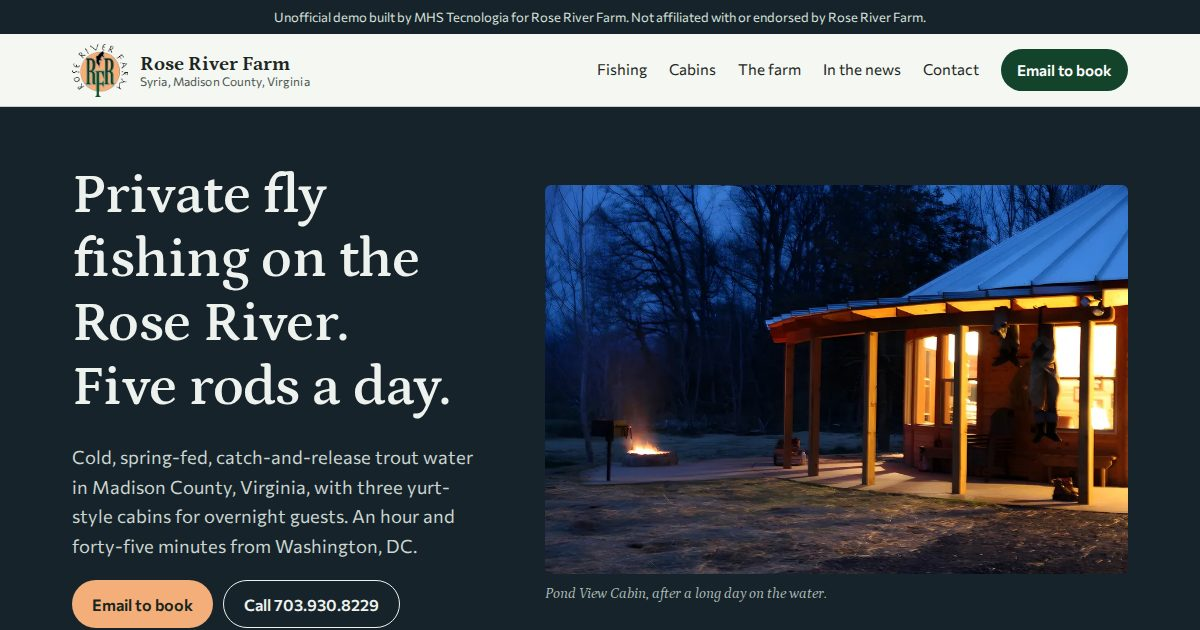
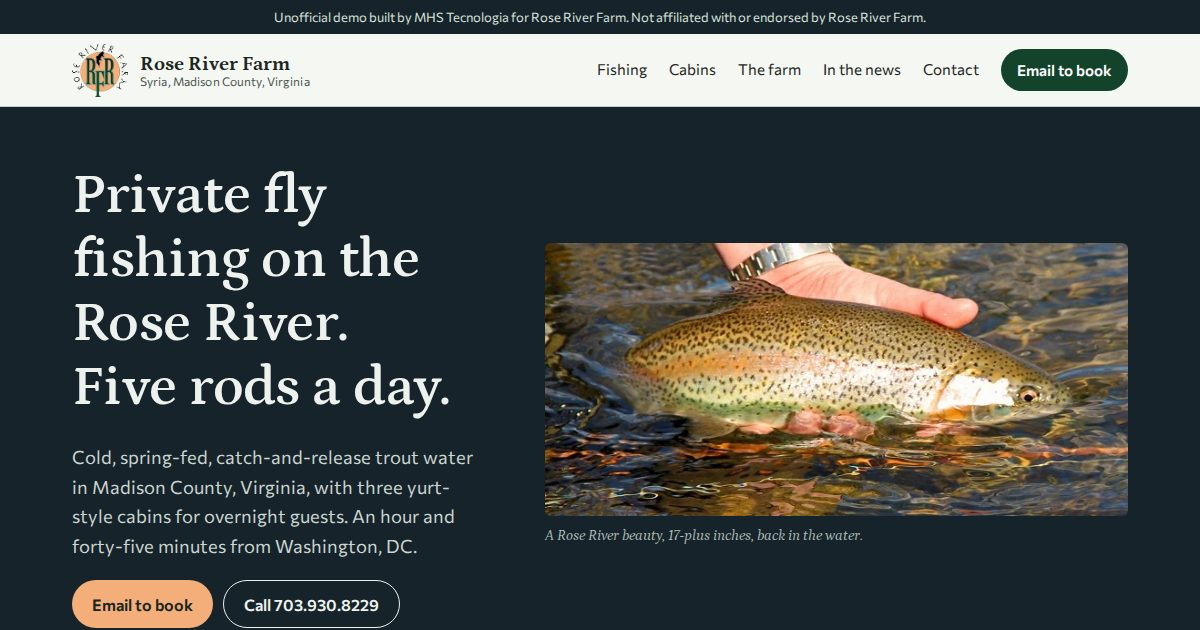
Previews: 165 ativos

Changed region(s): [[0.4317, 0.2714, 0.9558, 0.9651]]

diff --git a/rose-river-farm-syria-va/index.html b/rose-river-farm-syria-va/index.html
@@ -10,8 +10,7 @@
 <link rel="icon" href="favicon.png" type="image/png">
 <link rel="preload" href="fonts/petrona.woff2" as="font" type="font/woff2" crossorigin>
 <link rel="preload" href="fonts/commissioner.woff2" as="font" type="font/woff2" crossorigin>
-<link rel="preload" as="image" media="(max-width: 699px)" imagesrcset="img/hero-m-800.webp 800w" imagesizes="calc(100vw - 32px)" fetchpriority="high">
-<link rel="preload" as="image" media="(min-width: 700px)" imagesrcset="img/hero-1000.webp 1000w, img/hero-1400.webp 1400w" imagesizes="(min-width: 1184px) 590px, (min-width: 900px) 52vw, calc(100vw - 64px)" fetchpriority="high">
+<link rel="preload" as="image" href="img/trout-640.webp" imagesrcset="img/trout-640.webp 640w" imagesizes="(min-width: 1184px) 590px, (min-width: 900px) 52vw, calc(100vw - 32px)" fetchpriority="high">
 <style>@font-face{font-family:Petrona;src:url(fonts/petrona.woff2) format("woff2");font-weight:400 800;font-style:normal;font-display:swap}
 @font-face{font-family:Petrona;src:url(fonts/petrona-italic.woff2) format("woff2");font-weight:400 800;font-style:italic;font-display:swap}
 @font-face{font-family:Commissioner;src:url(fonts/commissioner.woff2) format("woff2");font-weight:300 700;font-style:normal;font-display:swap}
@@ -67,9 +66,8 @@ p{margin:0 0 1em;max-width:66ch}
 .hero .lede{color:#cbd6d2;font-size:1.0625rem;margin-bottom:1.1em;max-width:44ch}
 .actions{display:flex;flex-wrap:wrap;gap:10px}
 .hero figure{margin:0}
-.hero figure img{width:100%;border-radius:6px;aspect-ratio:5/4;object-fit:cover}
+.hero figure img{width:100%;max-width:640px;border-radius:6px}
 .hero figcaption{font-family:Petrona,Georgia,serif;font-style:italic;color:#aebdb8;font-size:.95rem;margin-top:8px}
-@media(min-width:700px){.hero figure img{aspect-ratio:3/2}}
 @media(min-width:900px){
  .hero .wrap{grid-template-columns:minmax(0,5fr) minmax(0,7fr);align-items:center;gap:56px;padding-top:56px;padding-bottom:64px}
  .hero .lede{font-size:1.15rem}
@@ -78,6 +76,10 @@ p{margin:0 0 1em;max-width:66ch}
 .phead{background:var(--dusk);color:#eef2ee;padding:34px 0 30px}
 .phead h1{font-size:clamp(2rem,1.4rem + 2.4vw,3.1rem);font-weight:600;max-width:22ch}
 .phead p{color:#cbd6d2;font-size:1.1rem;max-width:58ch;margin:0}
+/* photo band under inner page heads */
+.band-ph{padding:28px 0 0}
+.band-ph + .sec{padding-top:44px}
+@media(min-width:900px){.band-ph{padding-top:44px}.band-ph + .sec{padding-top:64px}}
 /* sections */
 .sec{padding:56px 0}
 .sec:not(.dark) + .sec:not(.dark){padding-top:8px}
@@ -156,6 +158,8 @@ details.dir p{margin:0 0 18px}
 .stick.on{transform:none}
 @media(min-width:900px){.stick{display:none}}
 @media(prefers-reduced-motion:reduce){.stick{transition:none}}
+.ph img[width="500"]{max-width:500px}
+.dark .ph figcaption{color:#aebdb8}
 </style>
 <meta property="og:type" content="website">
 <meta property="og:title" content="Rose River Farm · Private fly fishing in Syria, Virginia">
@@ -186,11 +190,8 @@ details.dir p{margin:0 0 18px}
    <div class="actions"><a class="btn btn-peach" href="mailto:roseriverfarm@gmail.com?subject=Booking%20a%20day%20at%20Rose%20River%20Farm">Email to book</a><a class="btn btn-line" href="tel:+17039308229">Call 703.930.8229</a></div>
   </div>
   <figure>
-   <picture>
-    <source media="(max-width: 699px)" srcset="img/hero-m-800.webp 800w" sizes="calc(100vw - 32px)" width="800" height="640">
-    <img src="img/hero-1400.webp" srcset="img/hero-1000.webp 1000w, img/hero-1400.webp 1400w" sizes="(min-width: 1184px) 590px, (min-width: 900px) 52vw, calc(100vw - 64px)" width="1400" height="933" alt="Waders hanging from the porch of a round cedar cabin at dusk, lit windows and a fire pit burning beside it" fetchpriority="high">
-   </picture>
-   <figcaption>Pond View Cabin, after a long day on the water.</figcaption>
+   <img src="img/trout-640.webp" srcset="img/trout-640.webp 640w" sizes="(min-width: 1184px) 590px, (min-width: 900px) 52vw, calc(100vw - 32px)" width="640" height="300" alt="A large spotted rainbow trout held just under the surface of clear river water" fetchpriority="high">
+   <figcaption>A Rose River beauty, 17-plus inches, back in the water.</figcaption>
   </figure>
  </div>
 </section>
@@ -214,18 +215,20 @@ details.dir p{margin:0 0 18px}
 </section>
 
 <section class="sec dark">
- <div class="wrap">
-<div class="flyhead"><div><h2 id="flybox">What’s in the fly box</h2>
- <p class="lead" style="margin:0">The patterns the farm fishes on its own water, season by season, as they write them up for guests.</p></div>
- <div class="tabs" role="tablist" aria-label="Season"><button role="tab" id="t-spring" aria-controls="p-spring" aria-selected="false" tabindex=-1>Spring</button><button role="tab" id="t-fall" aria-controls="p-fall" aria-selected="true">Fall</button><button role="tab" id="t-winter" aria-controls="p-winter" aria-selected="false" tabindex=-1>Winter</button><button role="tab" id="t-year" aria-controls="p-year" aria-selected="false" tabindex=-1>All year</button></div></div>
-<div class="box"><div class="foam"><div class="panel-s" role="tabpanel" id="p-spring" aria-labelledby="t-spring" tabindex="0"><div class="fly"><i>Stimulators</i></div><div class="fly"><i>Caddis</i></div><div class="fly"><i>Hoppers, crickets and ants</i><small>small sizes</small></div><p class="note">In spring, stimulators and caddis are good bets, along with the same terrestrials used in the fall, usually in small sizes.</p></div><div class="panel-s" role="tabpanel" id="p-fall" aria-labelledby="t-fall" tabindex="0"><div class="fly"><i>Hoppers</i><small>#12–16</small></div><div class="fly"><i>Crickets</i><small>#12–16</small></div><div class="fly"><i>Ants</i><small>#12–16</small></div><div class="fly"><i>Orange stimulator</i><small>#12–16</small></div><div class="fly"><i>Yellow stimulator</i><small>#12–16</small></div><p class="note">In the fall, hoppers, crickets and ants are all effective, as well as orange or yellow stimulators. Sizes 12–16 are typical.</p></div><div class="panel-s" role="tabpanel" id="p-winter" aria-labelledby="t-winter" tabindex="0"><div class="fly"><i>Black stoneflies</i><small>#16–22</small></div><div class="fly"><i>Trico patterns</i><small>#16–22</small></div><div class="fly"><i>Griffith’s Gnat</i><small>#18</small></div><div class="fly"><i>Winged stonefly</i></div><div class="fly"><i>Zebra Midge</i></div><div class="fly"><i>Orange caddis</i><small>#16</small></div><div class="fly"><i>Yellow caddis</i></div><div class="fly"><i>Parachute Adams</i></div><div class="fly"><i>Small black Woolly Bugger</i></div><div class="fly"><i>Rose River Special</i></div><p class="note">From the farm’s winter report: little black stoneflies come off most every day, and these patterns produced.</p></div><div class="panel-s" role="tabpanel" id="p-year" aria-labelledby="t-year" tabindex="0"><div class="fly"><i>Zebra Midge</i><small>nymph</small></div><div class="fly"><i>San Juan Worm</i><small>nymph</small></div><div class="fly"><i>Small Copper John</i><small>nymph</small></div><div class="fly"><i>Rainbow Warrior</i><small>nymph</small></div><div class="fly"><i>Prince Nymph</i><small>nymph</small></div><div class="fly"><i>Mop fly</i><small>nymph</small></div><div class="fly"><i>Woolly Bugger: black, olive, peach, white</i><small>streamer</small></div><p class="note">Nymphs can be very effective all year, often fished as a dry-dropper: the nymph on 1–2 feet of 5X tippet under an attractor dry fly.</p></div></div></div>
-<p class="tackle">Their tackle: a 4 or 5 weight rod, 7 to 9 foot leaders, 5X tippet. The Farm Fly Shop, in the big white barn with the green roof up the hill from the fishing gazebo, stocks guide Alan’s own proven ties.</p>
+<div class="wrap two">
+  <div>
+   <h2>What’s in the fly box</h2>
+   <p class="lead">The farm writes up what works on its water, season by season. In the fall: hoppers, crickets and ants, plus orange or yellow stimulators, sizes 12–16. In winter, little black stoneflies come off most every day.</p>
+   <p>Spring, winter and year-round patterns, nymph rigs and their tackle are in the full fly box.</p>
+   <p><a class="btn btn-peach" href="fishing.html#flybox">Open the full fly box</a></p>
+  </div>
+  <figure class="ph"><img src="img/pbb12-1280.webp" srcset="img/pbb12-640.webp 640w, img/pbb12-800.webp 800w, img/pbb12-1280.webp 1280w" sizes="(min-width: 1184px) 532px, (min-width: 900px) calc(50vw - 60px), calc(100vw - 32px)" width="1280" height="602" alt="Finished split-cane bamboo fly rod sections with a cork grip and figured wood reel seat" loading="lazy" decoding="async"><figcaption>A finished rod from the farm’s bamboo rod building class.</figcaption></figure>
  </div>
 </section>
 
 <section class="sec">
  <div class="wrap two">
-  <figure class="ph"><img src="img/p33-1200.webp" srcset="img/p33-640.webp 640w, img/p33-800.webp 800w, img/p33-1200.webp 1200w" sizes="(min-width: 1184px) 532px, (min-width: 900px) calc(50vw - 60px), calc(100vw - 32px)" width="1200" height="797" alt="Round living room under a domed wooden ceiling, with leather club chairs and a wall of windows" loading="lazy" decoding="async"><figcaption>The living room: a domed 17-foot ceiling and leather club furniture.</figcaption></figure>
+  <figure class="ph"><img src="img/hero-1400.webp" srcset="img/hero-1000.webp 1000w, img/hero-1400.webp 1400w" sizes="(min-width: 1184px) 532px, (min-width: 900px) calc(50vw - 60px), calc(100vw - 32px)" width="1400" height="933" alt="Waders hanging from the porch of a round cedar cabin at dusk, lit windows and a fire pit burning beside it" loading="lazy" decoding="async"><figcaption>Pond View Cabin, after a long day on the water.</figcaption></figure>
   <div>
    <h2>Stay the night in a yurt</h2>
    <p class="lead">Three cabins, Hill Top, Pond View and Mountain View, built as modern takes on the Mongolian yurt in cedar, glass and steel. They sit on a private 20-acre parcel catty-corner to the farm.</p>

diff --git a/rose-river-farm-syria-va/fishing.html b/rose-river-farm-syria-va/fishing.html
@@ -65,9 +65,8 @@ p{margin:0 0 1em;max-width:66ch}
 .hero .lede{color:#cbd6d2;font-size:1.0625rem;margin-bottom:1.1em;max-width:44ch}
 .actions{display:flex;flex-wrap:wrap;gap:10px}
 .hero figure{margin:0}
-.hero figure img{width:100%;border-radius:6px;aspect-ratio:5/4;object-fit:cover}
+.hero figure img{width:100%;max-width:640px;border-radius:6px}
 .hero figcaption{font-family:Petrona,Georgia,serif;font-style:italic;color:#aebdb8;font-size:.95rem;margin-top:8px}
-@media(min-width:700px){.hero figure img{aspect-ratio:3/2}}
 @media(min-width:900px){
  .hero .wrap{grid-template-columns:minmax(0,5fr) minmax(0,7fr);align-items:center;gap:56px;padding-top:56px;padding-bottom:64px}
  .hero .lede{font-size:1.15rem}
@@ -76,6 +75,10 @@ p{margin:0 0 1em;max-width:66ch}
 .phead{background:var(--dusk);color:#eef2ee;padding:34px 0 30px}
 .phead h1{font-size:clamp(2rem,1.4rem + 2.4vw,3.1rem);font-weight:600;max-width:22ch}
 .phead p{color:#cbd6d2;font-size:1.1rem;max-width:58ch;margin:0}
+/* photo band under inner page heads */
+.band-ph{padding:28px 0 0}
+.band-ph + .sec{padding-top:44px}
+@media(min-width:900px){.band-ph{padding-top:44px}.band-ph + .sec{padding-top:64px}}
 /* sections */
 .sec{padding:56px 0}
 .sec:not(.dark) + .sec:not(.dark){padding-top:8px}
@@ -154,6 +157,8 @@ details.dir p{margin:0 0 18px}
 .stick.on{transform:none}
 @media(min-width:900px){.stick{display:none}}
 @media(prefers-reduced-motion:reduce){.stick{transition:none}}
+.ph img[width="500"]{max-width:500px}
+.dark .ph figcaption{color:#aebdb8}
 </style>
 </head>
 <body>
@@ -170,6 +175,7 @@ details.dir p{margin:0 0 18px}
 <main id="main">
 
 <section class="phead" data-stick-after><div class="wrap"><h1>Fishing the farm</h1><p>Dry fly and nymph fishing on cold, crystal-clear, spring-fed private water. Come for a day, or add a night or two in the cabins.</p></div></section>
+<section class="band-ph"><div class="wrap grid2"><figure class="ph"><img src="img/p26-500.webp" srcset="img/p26-500.webp 500w" sizes="(min-width: 760px) 500px, calc(100vw - 32px)" width="500" height="332" alt="A trout lying in a landing net beside a fly rod" fetchpriority="high"><figcaption>Catch and gentle release, every fish.</figcaption></figure><figure class="ph"><img src="img/pbb12-1280.webp" srcset="img/pbb12-640.webp 640w, img/pbb12-800.webp 800w, img/pbb12-1280.webp 1280w" sizes="(min-width: 1184px) 532px, (min-width: 760px) calc(50vw - 44px), calc(100vw - 32px)" width="1280" height="602" alt="Finished split-cane bamboo fly rod sections with a cork grip" loading="lazy" decoding="async"><figcaption>A finished rod from the bamboo rod building class.</figcaption></figure></div></section>
 
 <section class="sec">
  <div class="wrap two">
@@ -183,7 +189,11 @@ details.dir p{margin:0 0 18px}
    </ul>
    <p class="note-plain" style="margin-top:20px">Open dates are on the farm’s own online reservation calendar. For a guided trip or a school, check stream availability first, then email <a href="mailto:roseriverfarm@gmail.com">roseriverfarm@gmail.com</a>.</p>
   </div>
-  <figure class="ph"><img src="img/p26-500.webp" srcset="img/p26-500.webp 500w" sizes="(min-width: 900px) 500px, calc(100vw - 32px)" width="500" height="332" alt="A trout lying in a landing net beside a fly rod" loading="lazy" decoding="async"><figcaption>Catch and gentle release keeps the trout population strong year round.</figcaption></figure>
+  <div>
+   <h2>Fish more than the farm</h2>
+   <p>Some of the best public trout water is minutes from the cabins: the Rapidan, White Oak Canyon, the Conway and the Upper Rose, all native brook trout streams. The farm offers full and half day guide services on them.</p>
+   <p>Their stretch of the Rose is regularly tested for water quality and aquatic insects, and strict catch and gentle release keeps the trout population strong year round.</p>
+  </div>
  </div>
 </section>
 
@@ -199,7 +209,7 @@ details.dir p{margin:0 0 18px}
   <div>
    <h2>Guides and lessons</h2>
    <p>Full and half day guide services, and group and private fly fishing schools, under Head Guide Alan Edmunds. Alan began fly fishing and tying at 15 and ran guided trips on the Battenkill in Vermont before coming home to Virginia.</p>
-   <p>The team includes Head Guide Emeritus Gary Burwell, Jen Goodale, Bryant Robinson and John Shipstedt. The farm also guides the native brook trout streams nearby: the Rapidan, the Upper Rose, the Robinson and others a few minutes from the cabins.</p>
+   <p>The team includes Head Guide Emeritus Gary Burwell, Jen Goodale, Bryant Robinson and John Shipstedt.</p>
   </div>
  </div>
 </section>
@@ -218,7 +228,7 @@ details.dir p{margin:0 0 18px}
  <div class="wrap two">
   <div>
    <h2>Corporate days and groups</h2>
-   <p>The cabins sleep eight anglers. The farm can arrange the details from catering to meeting space in the large barn, any level of instruction, and even a fly fishing celebrity to fish with your group or a fly-tying demonstration.</p>
+   <p>Using all three cabins, the farm sleeps 12 adults comfortably. Besides fly fishing there are sporting clays and preserve bird hunting nearby, and the farm can arrange a Virginia wine tasting, a well-tested group of caterers, meeting space in the large barn, any level of instruction, and even a fly fishing celebrity to fish with your group or a fly-tying demonstration.</p>
   </div>
   <div>
    <h2>Build a bamboo rod</h2>

diff --git a/rose-river-farm-syria-va/news.html b/rose-river-farm-syria-va/news.html
@@ -65,9 +65,8 @@ p{margin:0 0 1em;max-width:66ch}
 .hero .lede{color:#cbd6d2;font-size:1.0625rem;margin-bottom:1.1em;max-width:44ch}
 .actions{display:flex;flex-wrap:wrap;gap:10px}
 .hero figure{margin:0}
-.hero figure img{width:100%;border-radius:6px;aspect-ratio:5/4;object-fit:cover}
+.hero figure img{width:100%;max-width:640px;border-radius:6px}
 .hero figcaption{font-family:Petrona,Georgia,serif;font-style:italic;color:#aebdb8;font-size:.95rem;margin-top:8px}
-@media(min-width:700px){.hero figure img{aspect-ratio:3/2}}
 @media(min-width:900px){
  .hero .wrap{grid-template-columns:minmax(0,5fr) minmax(0,7fr);align-items:center;gap:56px;padding-top:56px;padding-bottom:64px}
  .hero .lede{font-size:1.15rem}
@@ -76,6 +75,10 @@ p{margin:0 0 1em;max-width:66ch}
 .phead{background:var(--dusk);color:#eef2ee;padding:34px 0 30px}
 .phead h1{font-size:clamp(2rem,1.4rem + 2.4vw,3.1rem);font-weight:600;max-width:22ch}
 .phead p{color:#cbd6d2;font-size:1.1rem;max-width:58ch;margin:0}
+/* photo band under inner page heads */
+.band-ph{padding:28px 0 0}
+.band-ph + .sec{padding-top:44px}
+@media(min-width:900px){.band-ph{padding-top:44px}.band-ph + .sec{padding-top:64px}}
 /* sections */
 .sec{padding:56px 0}
 .sec:not(.dark) + .sec:not(.dark){padding-top:8px}
@@ -154,6 +157,8 @@ details.dir p{margin:0 0 18px}
 .stick.on{transform:none}
 @media(min-width:900px){.stick{display:none}}
 @media(prefers-reduced-motion:reduce){.stick{transition:none}}
+.ph img[width="500"]{max-width:500px}
+.dark .ph figcaption{color:#aebdb8}
 </style>
 </head>
 <body>
@@ -170,6 +175,7 @@ details.dir p{margin:0 0 18px}
 <main id="main">
 
 <section class="phead" data-stick-after><div class="wrap"><h1>The farm in the news</h1><p>What writers and guests have said about the water and the cabins.</p></div></section>
+<section class="band-ph"><div class="wrap grid2"><figure class="ph">{img("p30", 1200, 800, "Round cedar cabin with a metal roof on a grassy bluff among tall trees", [640, 800, 1200], "(min-width: 1184px) 532px, (min-width: 760px) calc(50vw - 44px), calc(100vw - 32px)", eager=True)}<figcaption>Hill Top, one of the three yurt-style cabins.</figcaption></figure><figure class="ph">{img("p33", 1200, 797, "Living room with leather chairs under a domed wooden ceiling", [640, 800, 1200], "(min-width: 1184px) 532px, (min-width: 760px) calc(50vw - 44px), calc(100vw - 32px)")}<figcaption>The 17-foot domed ceiling the press keeps mentioning.</figcaption></figure></div></section>
 <section class="sec">
  <div class="wrap press">
   <article><p class="src">The Best of Virginia</p><p class="when">Named 10 Most Unique Hotels in VA</p><blockquote>“Rose River Farm is one of the most unique hotels on the list… With views this gorgeous, you may never want to go home.”</blockquote></article>

diff --git a/rose-river-farm-syria-va/farm.html b/rose-river-farm-syria-va/farm.html
@@ -65,9 +65,8 @@ p{margin:0 0 1em;max-width:66ch}
 .hero .lede{color:#cbd6d2;font-size:1.0625rem;margin-bottom:1.1em;max-width:44ch}
 .actions{display:flex;flex-wrap:wrap;gap:10px}
 .hero figure{margin:0}
-.hero figure img{width:100%;border-radius:6px;aspect-ratio:5/4;object-fit:cover}
+.hero figure img{width:100%;max-width:640px;border-radius:6px}
 .hero figcaption{font-family:Petrona,Georgia,serif;font-style:italic;color:#aebdb8;font-size:.95rem;margin-top:8px}
-@media(min-width:700px){.hero figure img{aspect-ratio:3/2}}
 @media(min-width:900px){
  .hero .wrap{grid-template-columns:minmax(0,5fr) minmax(0,7fr);align-items:center;gap:56px;padding-top:56px;padding-bottom:64px}
  .hero .lede{font-size:1.15rem}
@@ -76,6 +75,10 @@ p{margin:0 0 1em;max-width:66ch}
 .phead{background:var(--dusk);color:#eef2ee;padding:34px 0 30px}
 .phead h1{font-size:clamp(2rem,1.4rem + 2.4vw,3.1rem);font-weight:600;max-width:22ch}
 .phead p{color:#cbd6d2;font-size:1.1rem;max-width:58ch;margin:0}
+/* photo band under inner page heads */
+.band-ph{padding:28px 0 0}
+.band-ph + .sec{padding-top:44px}
+@media(min-width:900px){.band-ph{padding-top:44px}.band-ph + .sec{padding-top:64px}}
 /* sections */
 .sec{padding:56px 0}
 .sec:not(.dark) + .sec:not(.dark){padding-top:8px}
@@ -154,6 +157,8 @@ details.dir p{margin:0 0 18px}
 .stick.on{transform:none}
 @media(min-width:900px){.stick{display:none}}
 @media(prefers-reduced-motion:reduce){.stick{transition:none}}
+.ph img[width="500"]{max-width:500px}
+.dark .ph figcaption{color:#aebdb8}
 </style>
 </head>
 <body>
@@ -170,6 +175,7 @@ details.dir p{margin:0 0 18px}
 <main id="main">
 
 <section class="phead" data-stick-after><div class="wrap"><h1>A working farm on the Rose River</h1><p>Black Angus cattle, peach orchards, hay fields and wildlife habitat, farmed in environmentally sensitive ways to keep the land pristine for generations.</p></div></section>
+<section class="band-ph"><div class="wrap"><figure class="ph"><img src="img/pev4-1280.webp" srcset="img/pev4-640.webp 640w, img/pev4-800.webp 800w, img/pev4-1280.webp 1280w" sizes="(min-width: 1184px) 1088px, calc(100vw - 32px)" width="1280" height="600" alt="Pond reflecting a green pasture, autumn trees and Double Top Mountain" fetchpriority="high"><figcaption>The pond and pasture at the cabins, below Double Top Mountain.</figcaption></figure></div></section>
 
 <section class="sec">
  <div class="wrap two">

diff --git a/rose-river-farm-syria-va/contact.html b/rose-river-farm-syria-va/contact.html
@@ -65,9 +65,8 @@ p{margin:0 0 1em;max-width:66ch}
 .hero .lede{color:#cbd6d2;font-size:1.0625rem;margin-bottom:1.1em;max-width:44ch}
 .actions{display:flex;flex-wrap:wrap;gap:10px}
 .hero figure{margin:0}
-.hero figure img{width:100%;border-radius:6px;aspect-ratio:5/4;object-fit:cover}
+.hero figure img{width:100%;max-width:640px;border-radius:6px}
 .hero figcaption{font-family:Petrona,Georgia,serif;font-style:italic;color:#aebdb8;font-size:.95rem;margin-top:8px}
-@media(min-width:700px){.hero figure img{aspect-ratio:3/2}}
 @media(min-width:900px){
  .hero .wrap{grid-template-columns:minmax(0,5fr) minmax(0,7fr);align-items:center;gap:56px;padding-top:56px;padding-bottom:64px}
  .hero .lede{font-size:1.15rem}
@@ -76,6 +75,10 @@ p{margin:0 0 1em;max-width:66ch}
 .phead{background:var(--dusk);color:#eef2ee;padding:34px 0 30px}
 .phead h1{font-size:clamp(2rem,1.4rem + 2.4vw,3.1rem);font-weight:600;max-width:22ch}
 .phead p{color:#cbd6d2;font-size:1.1rem;max-width:58ch;margin:0}
+/* photo band under inner page heads */
+.band-ph{padding:28px 0 0}
+.band-ph + .sec{padding-top:44px}
+@media(min-width:900px){.band-ph{padding-top:44px}.band-ph + .sec{padding-top:64px}}
 /* sections */
 .sec{padding:56px 0}
 .sec:not(.dark) + .sec:not(.dark){padding-top:8px}
@@ -154,6 +157,8 @@ details.dir p{margin:0 0 18px}
 .stick.on{transform:none}
 @media(min-width:900px){.stick{display:none}}
 @media(prefers-reduced-motion:reduce){.stick{transition:none}}
+.ph img[width="500"]{max-width:500px}
+.dark .ph figcaption{color:#aebdb8}
 </style>
 </head>
 <body>
@@ -170,6 +175,7 @@ details.dir p{margin:0 0 18px}
 <main id="main">
 
 <section class="phead" data-stick-after><div class="wrap"><h1>Contact and directions</h1><p>Fishing is strictly by reservation, and drop-ins are not allowed. To tour the farm, email for an appointment.</p></div></section>
+<section class="band-ph"><div class="wrap"><figure class="ph"><img src="img/p36-1280.webp" srcset="img/p36-640.webp 640w, img/p36-800.webp 800w, img/p36-1280.webp 1280w" sizes="(min-width: 1184px) 1088px, calc(100vw - 32px)" width="1280" height="600" alt="Two wooden porch chairs facing green hills and mountains" fetchpriority="high"><figcaption>Old Rag and Double Top from a cabin porch.</figcaption></figure></div></section>
 <section class="sec">
  <div class="wrap two">
   <div class="contact-card">

diff --git a/rose-river-farm-syria-va/cabins.html b/rose-river-farm-syria-va/cabins.html
@@ -65,9 +65,8 @@ p{margin:0 0 1em;max-width:66ch}
 .hero .lede{color:#cbd6d2;font-size:1.0625rem;margin-bottom:1.1em;max-width:44ch}
 .actions{display:flex;flex-wrap:wrap;gap:10px}
 .hero figure{margin:0}
-.hero figure img{width:100%;border-radius:6px;aspect-ratio:5/4;object-fit:cover}
+.hero figure img{width:100%;max-width:640px;border-radius:6px}
 .hero figcaption{font-family:Petrona,Georgia,serif;font-style:italic;color:#aebdb8;font-size:.95rem;margin-top:8px}
-@media(min-width:700px){.hero figure img{aspect-ratio:3/2}}
 @media(min-width:900px){
  .hero .wrap{grid-template-columns:minmax(0,5fr) minmax(0,7fr);align-items:center;gap:56px;padding-top:56px;padding-bottom:64px}
  .hero .lede{font-size:1.15rem}
@@ -76,6 +75,10 @@ p{margin:0 0 1em;max-width:66ch}
 .phead{background:var(--dusk);color:#eef2ee;padding:34px 0 30px}
 .phead h1{font-size:clamp(2rem,1.4rem + 2.4vw,3.1rem);font-weight:600;max-width:22ch}
 .phead p{color:#cbd6d2;font-size:1.1rem;max-width:58ch;margin:0}
+/* photo band under inner page heads */
+.band-ph{padding:28px 0 0}
+.band-ph + .sec{padding-top:44px}
+@media(min-width:900px){.band-ph{padding-top:44px}.band-ph + .sec{padding-top:64px}}
 /* sections */
 .sec{padding:56px 0}
 .sec:not(.dark) + .sec:not(.dark){padding-top:8px}
@@ -154,6 +157,8 @@ details.dir p{margin:0 0 18px}
 .stick.on{transform:none}
 @media(min-width:900px){.stick{display:none}}
 @media(prefers-reduced-motion:reduce){.stick{transition:none}}
+.ph img[width="500"]{max-width:500px}
+.dark .ph figcaption{color:#aebdb8}
 </style>
 </head>
 <body>
